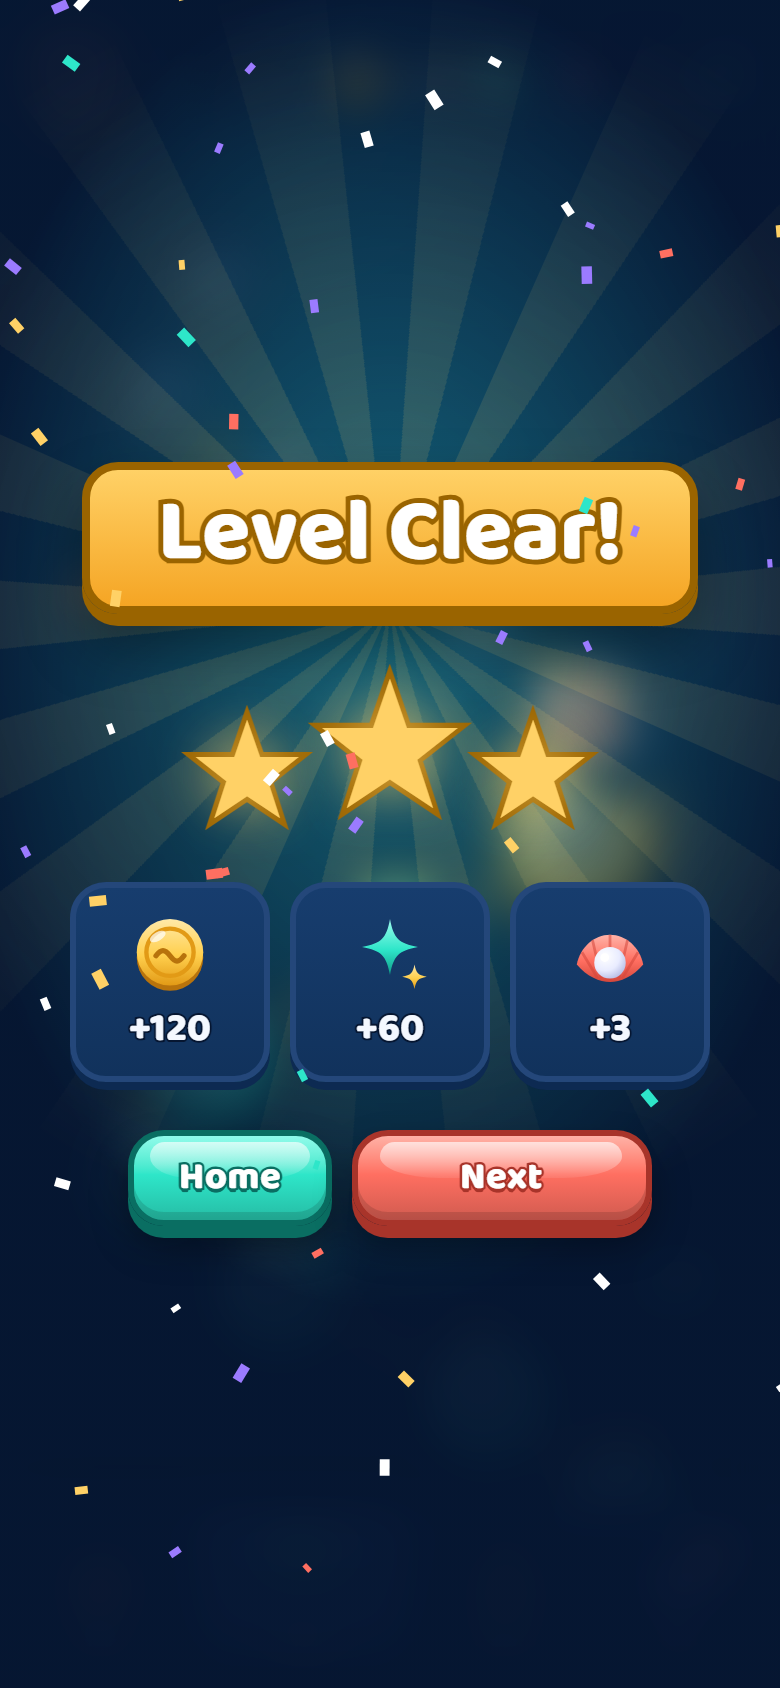
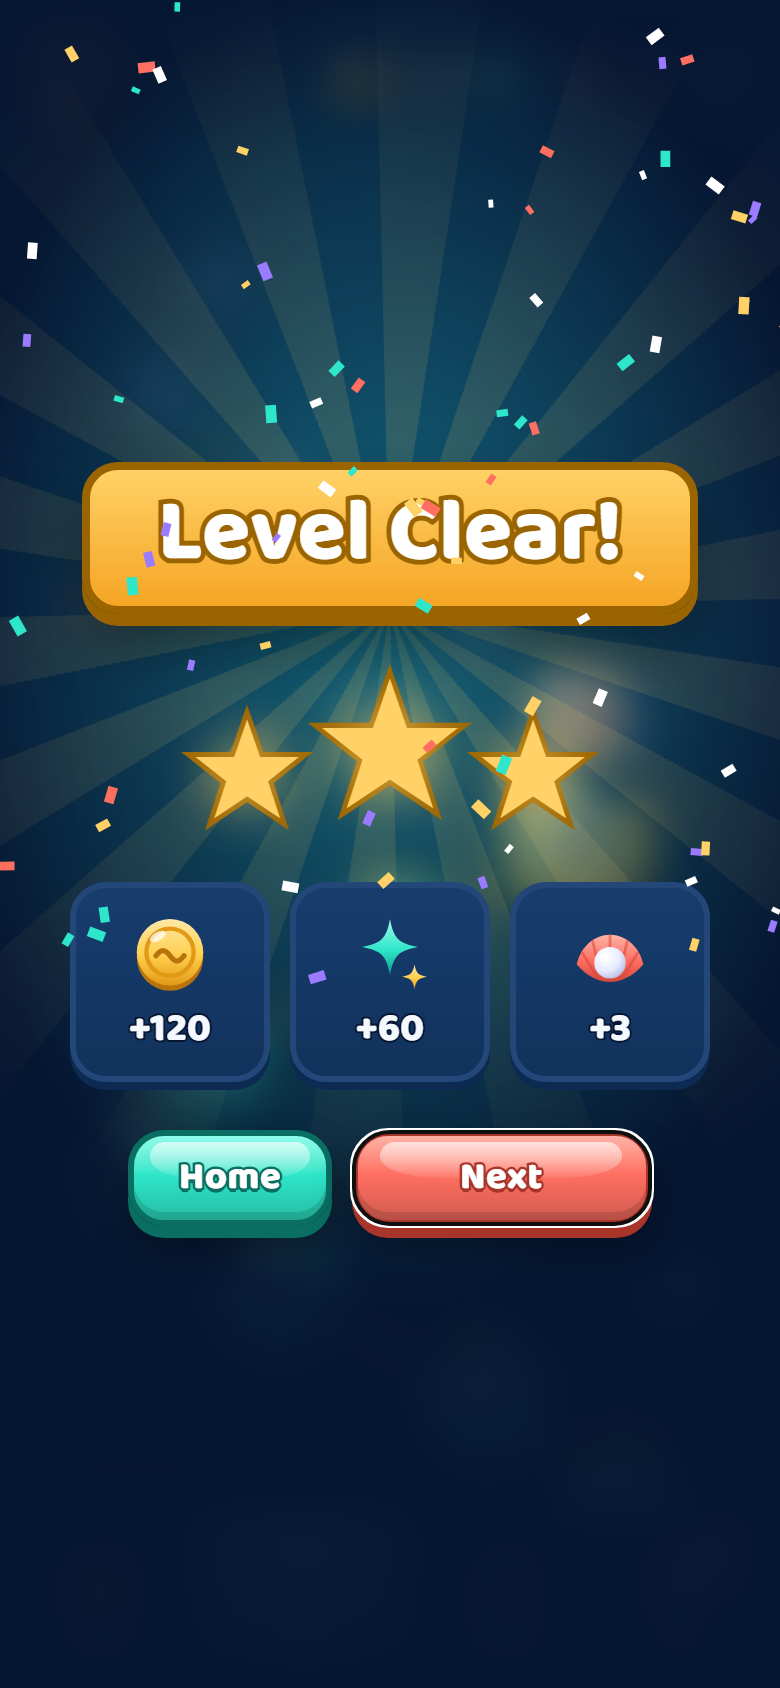
Accessible dialogs: inert background and hidden screens, aria-modal, focus in/out, Tab trap, Escape

diff --git a/app.html b/app.html
@@ -436,7 +436,7 @@ canvas#fx{position:absolute;inset:0;width:100%;height:100%;z-index:80;pointer-ev
 
   <div class="scrim" id="scrim"></div>
 
-  <div class="panel sheet" id="sheet" role="dialog" aria-label="Level start">
+  <div class="panel sheet" id="sheet" role="dialog" aria-modal="true" aria-label="Level start" inert>
     <span class="ribbon gold" id="sheetTitle">Level 15</span><button class="close" data-close aria-label="Close"></button>
     <div class="sec" style="text-align:center;margin-top:4px">Goals · 25 moves</div>
     <div class="goal"><div><i><svg class="ico" aria-hidden="true"><use href="#i-pearl"/></svg></i><b>× 30</b></div><div><i><svg class="ico" aria-hidden="true"><use href="#i-bubble"/></svg></i><b>× 12</b></div><div><i><svg class="ico" aria-hidden="true"><use href="#i-timer"/></svg></i><b>25</b></div></div>
@@ -449,7 +449,7 @@ canvas#fx{position:absolute;inset:0;width:100%;height:100%;z-index:80;pointer-ev
     <button class="btn coral lg" id="startLevel" style="width:100%"><span class="shine"></span><b>Start</b><span style="display:flex;align-items:center;gap:2px;font-size:20px;-webkit-text-stroke:0;text-shadow:none"><svg class="ico" aria-hidden="true"><use href="#i-energy"/></svg><b style="font-size:20px">1</b></span></button>
   </div>
 
-  <div class="panel popup" id="questsPop" role="dialog" aria-label="Daily quests">
+  <div class="panel popup" id="questsPop" role="dialog" aria-modal="true" aria-label="Daily quests" inert>
     <span class="ribbon teal">Daily Quests</span><button class="close" data-close aria-label="Close"></button>
     <div class="quests" style="text-align:left">
       <div class="quest"><div class="q-ic"><svg class="ico" aria-hidden="true"><use href="#i-shell"/></svg></div><div class="q-body"><b>Clear 3 levels</b><div class="bar"><i style="width:66%"></i><span>2/3</span></div></div><button class="btn sm disabled"><b>Go</b></button></div>
@@ -457,7 +457,7 @@ canvas#fx{position:absolute;inset:0;width:100%;height:100%;z-index:80;pointer-ev
     </div>
   </div>
 
-  <div class="panel popup" id="buyModal" role="dialog">
+  <div class="panel popup" id="buyModal" role="dialog" aria-modal="true" aria-label="Confirm purchase" inert>
     <span class="ribbon gold" id="buyTitle">Captain's Bundle</span><button class="close" data-close aria-label="Close"></button>
     <div class="chest" id="chest"><img src="art/chest.png" alt="Treasure chest"></div>
     <p>Confirm purchase</p>
@@ -467,7 +467,7 @@ canvas#fx{position:absolute;inset:0;width:100%;height:100%;z-index:80;pointer-ev
 
   <div id="dive"><div class="bubbles" id="bubbles"></div><div class="label">Diving…</div></div>
 
-  <div id="win" role="dialog" aria-label="Level complete">
+  <div id="win" role="dialog" aria-modal="true" aria-label="Level complete" inert>
     <div class="rays"></div>
     <div class="banner">Level Clear!</div>
     <div class="bigstars" id="bigstars"><span>★</span><span>★</span><span>★</span></div>
@@ -509,8 +509,8 @@ function go(tab) {
   inn.style.transition = "none"; inn.className = "screen " + (b > a ? "off-right" : "off-left"); void inn.offsetWidth;
   inn.style.transition = ""; inn.className = "screen"; enter(inn);
   out.className = "screen " + (b > a ? "off-left" : "off-right");
-  current = tab;
-  $$(".nav button").forEach(btn => btn.classList.toggle("on", btn.dataset.tab === tab));
+  current = tab; $$(".screen").forEach(sc => sc.inert = sc.id !== tab);
+  $$(".nav button").forEach(btn => { btn.classList.toggle("on", btn.dataset.tab === tab); btn.setAttribute("aria-current", btn.dataset.tab === tab ? "page" : "false"); });
   requestAnimationFrame(movePlate);
   if (tab === "map") scrollMapToMe();
   vibrate();
@@ -535,8 +535,31 @@ setInterval(() => {
 }, 1000);
 
 /* ---------- overlays ---------- */
-function openOverlay(id) { $("#scrim").classList.add("on"); $(id).classList.add("on"); vibrate(); }
-function closeOverlays() { $("#scrim").classList.remove("on"); $$(".sheet,.popup").forEach(o => o.classList.remove("on")); }
+/* Background is inert while a dialog is open; focus moves in and returns to the opener on close. */
+let opener = null, openDialog = null;
+const BACKDROP = () => [...$$(".screen"), $("#nav"), $(".hud")];
+function setBackdropInert(on) { BACKDROP().forEach(el => el.inert = on ? true : (el.classList.contains("screen") ? el.id !== current : false)); }
+function focusFirst(el) { const f = el.querySelector('button:not([disabled]):not(.disabled)'); f && f.focus({ preventScroll: true }); }
+function openOverlay(id) {
+  const el = $(id); opener = opener || document.activeElement; openDialog = el;
+  $("#scrim").classList.add("on"); el.classList.add("on"); el.inert = false; setBackdropInert(true);
+  setTimeout(() => focusFirst(el), 60); vibrate();
+}
+function closeOverlays() {
+  $("#scrim").classList.remove("on"); $$(".sheet,.popup").forEach(o => { o.classList.remove("on"); o.inert = true; });
+  openDialog = null; setBackdropInert(false);
+  if (opener && document.contains(opener) && !opener.closest("[inert]")) opener.focus({ preventScroll: true }); opener = null;
+}
+addEventListener("keydown", e => {
+  const dlg = openDialog || ($("#win").classList.contains("on") ? $("#win") : null);
+  if (!dlg) return;
+  if (e.key === "Escape" && openDialog) { e.preventDefault(); closeOverlays(); return; }
+  if (e.key !== "Tab") return;
+  const f = [...dlg.querySelectorAll("button:not([disabled]):not(.disabled)")].filter(b => b.offsetParent !== null);
+  if (!f.length) return;
+  if (e.shiftKey && document.activeElement === f[0]) { e.preventDefault(); f[f.length - 1].focus(); }
+  else if (!e.shiftKey && document.activeElement === f[f.length - 1]) { e.preventDefault(); f[0].focus(); }
+});
 $("#scrim").addEventListener("click", closeOverlays);
 $$("[data-close]").forEach(b => b.addEventListener("click", closeOverlays));
 
@@ -601,17 +624,17 @@ function dive() {
 }
 function showWin(lvl) {
   const stars = lvl === state.level ? 3 : Math.max(state.stars[lvl] || 0, 2);
-  $("#win").classList.add("on");
+  $("#win").classList.add("on"); $("#win").inert = false; setBackdropInert(true);
   $$("#bigstars span").forEach(s => s.classList.remove("on")); $$("#rewards div").forEach(d => d.classList.remove("on")); $("#winActions").classList.remove("on");
   $$("#bigstars span").forEach((s, i) => setTimeout(() => { if (i < stars) { s.classList.add("on"); vibrate(20); burst(s); } }, 600 + i * 360));
   $$("#rewards div").forEach((d, i) => setTimeout(() => d.classList.add("on"), 1700 + i * 120));
   setTimeout(() => { tween($("#rwCoins"), 0, 120, 700); tween($("#rwXp"), 0, 60, 700); confetti(); }, 1800);
-  setTimeout(() => $("#winActions").classList.add("on"), 2400);
+  setTimeout(() => { $("#winActions").classList.add("on"); $("#winNext").focus({ preventScroll: true }); }, 2400);
   state.stars[lvl] = Math.max(state.stars[lvl] || 0, stars);
   if (lvl === state.level) state.level = Math.min(20, state.level + 1);
 }
 function collectWin(next) {
-  $("#win").classList.remove("on"); addCoins(120); gainXp(60); renderMap();
+  $("#win").classList.remove("on"); $("#win").inert = true; setBackdropInert(false); addCoins(120); gainXp(60); renderMap();
   if (next) { go("map"); setTimeout(() => openSheet(state.level), 700); } else go("home");
 }
 $("#winHome").addEventListener("click", () => collectWin(false));
@@ -723,7 +746,7 @@ const TOUR = [
 let touring = false;
 async function tour() { if (touring) return; touring = true; for (const [w, a] of TOUR) { await new Promise(r => setTimeout(r, w)); a(); } touring = false; parent.postMessage({ type: "tour-done" }, "*"); }
 addEventListener("message", e => { if (e.data === "tour") tour(); });
-renderPass(); updateBadge(); movePlate(); enter($("#home"));
+renderPass(); updateBadge(); movePlate(); enter($("#home")); $$(".screen").forEach(sc => sc.inert = sc.id !== current);
 if (new URLSearchParams(location.search).get("tour")) setTimeout(tour, 800);
 </script>
 </body>

diff --git a/app.src.html b/app.src.html
@@ -396,7 +396,7 @@ canvas#fx{position:absolute;inset:0;width:100%;height:100%;z-index:80;pointer-ev
 
   <div class="scrim" id="scrim"></div>
 
-  <div class="panel sheet" id="sheet" role="dialog" aria-label="Level start">
+  <div class="panel sheet" id="sheet" role="dialog" aria-modal="true" aria-label="Level start" inert>
     <span class="ribbon gold" id="sheetTitle">Level 15</span><button class="close" data-close aria-label="Close"></button>
     <div class="sec" style="text-align:center;margin-top:4px">Goals · 25 moves</div>
     <div class="goal"><div><i>#I:pearl#</i><b>× 30</b></div><div><i>#I:bubble#</i><b>× 12</b></div><div><i>#I:timer#</i><b>25</b></div></div>
@@ -409,7 +409,7 @@ canvas#fx{position:absolute;inset:0;width:100%;height:100%;z-index:80;pointer-ev
     <button class="btn coral lg" id="startLevel" style="width:100%"><span class="shine"></span><b>Start</b><span style="display:flex;align-items:center;gap:2px;font-size:20px;-webkit-text-stroke:0;text-shadow:none">#I:energy#<b style="font-size:20px">1</b></span></button>
   </div>
 
-  <div class="panel popup" id="questsPop" role="dialog" aria-label="Daily quests">
+  <div class="panel popup" id="questsPop" role="dialog" aria-modal="true" aria-label="Daily quests" inert>
     <span class="ribbon teal">Daily Quests</span><button class="close" data-close aria-label="Close"></button>
     <div class="quests" style="text-align:left">
       <div class="quest"><div class="q-ic">#I:shell#</div><div class="q-body"><b>Clear 3 levels</b><div class="bar"><i style="width:66%"></i><span>2/3</span></div></div><button class="btn sm disabled"><b>Go</b></button></div>
@@ -417,7 +417,7 @@ canvas#fx{position:absolute;inset:0;width:100%;height:100%;z-index:80;pointer-ev
     </div>
   </div>
 
-  <div class="panel popup" id="buyModal" role="dialog">
+  <div class="panel popup" id="buyModal" role="dialog" aria-modal="true" aria-label="Confirm purchase" inert>
     <span class="ribbon gold" id="buyTitle">Captain's Bundle</span><button class="close" data-close aria-label="Close"></button>
     <div class="chest" id="chest"><img src="art/chest.png" alt="Treasure chest"></div>
     <p>Confirm purchase</p>
@@ -427,7 +427,7 @@ canvas#fx{position:absolute;inset:0;width:100%;height:100%;z-index:80;pointer-ev
 
   <div id="dive"><div class="bubbles" id="bubbles"></div><div class="label">Diving…</div></div>
 
-  <div id="win" role="dialog" aria-label="Level complete">
+  <div id="win" role="dialog" aria-modal="true" aria-label="Level complete" inert>
     <div class="rays"></div>
     <div class="banner">Level Clear!</div>
     <div class="bigstars" id="bigstars"><span>★</span><span>★</span><span>★</span></div>
@@ -469,8 +469,8 @@ function go(tab) {
   inn.style.transition = "none"; inn.className = "screen " + (b > a ? "off-right" : "off-left"); void inn.offsetWidth;
   inn.style.transition = ""; inn.className = "screen"; enter(inn);
   out.className = "screen " + (b > a ? "off-left" : "off-right");
-  current = tab;
-  $$(".nav button").forEach(btn => btn.classList.toggle("on", btn.dataset.tab === tab));
+  current = tab; $$(".screen").forEach(sc => sc.inert = sc.id !== tab);
+  $$(".nav button").forEach(btn => { btn.classList.toggle("on", btn.dataset.tab === tab); btn.setAttribute("aria-current", btn.dataset.tab === tab ? "page" : "false"); });
   requestAnimationFrame(movePlate);
   if (tab === "map") scrollMapToMe();
   vibrate();
@@ -495,8 +495,31 @@ setInterval(() => {
 }, 1000);
 
 /* ---------- overlays ---------- */
-function openOverlay(id) { $("#scrim").classList.add("on"); $(id).classList.add("on"); vibrate(); }
-function closeOverlays() { $("#scrim").classList.remove("on"); $$(".sheet,.popup").forEach(o => o.classList.remove("on")); }
+/* Background is inert while a dialog is open; focus moves in and returns to the opener on close. */
+let opener = null, openDialog = null;
+const BACKDROP = () => [...$$(".screen"), $("#nav"), $(".hud")];
+function setBackdropInert(on) { BACKDROP().forEach(el => el.inert = on ? true : (el.classList.contains("screen") ? el.id !== current : false)); }
+function focusFirst(el) { const f = el.querySelector('button:not([disabled]):not(.disabled)'); f && f.focus({ preventScroll: true }); }
+function openOverlay(id) {
+  const el = $(id); opener = opener || document.activeElement; openDialog = el;
+  $("#scrim").classList.add("on"); el.classList.add("on"); el.inert = false; setBackdropInert(true);
+  setTimeout(() => focusFirst(el), 60); vibrate();
+}
+function closeOverlays() {
+  $("#scrim").classList.remove("on"); $$(".sheet,.popup").forEach(o => { o.classList.remove("on"); o.inert = true; });
+  openDialog = null; setBackdropInert(false);
+  if (opener && document.contains(opener) && !opener.closest("[inert]")) opener.focus({ preventScroll: true }); opener = null;
+}
+addEventListener("keydown", e => {
+  const dlg = openDialog || ($("#win").classList.contains("on") ? $("#win") : null);
+  if (!dlg) return;
+  if (e.key === "Escape" && openDialog) { e.preventDefault(); closeOverlays(); return; }
+  if (e.key !== "Tab") return;
+  const f = [...dlg.querySelectorAll("button:not([disabled]):not(.disabled)")].filter(b => b.offsetParent !== null);
+  if (!f.length) return;
+  if (e.shiftKey && document.activeElement === f[0]) { e.preventDefault(); f[f.length - 1].focus(); }
+  else if (!e.shiftKey && document.activeElement === f[f.length - 1]) { e.preventDefault(); f[0].focus(); }
+});
 $("#scrim").addEventListener("click", closeOverlays);
 $$("[data-close]").forEach(b => b.addEventListener("click", closeOverlays));
 
@@ -561,17 +584,17 @@ function dive() {
 }
 function showWin(lvl) {
   const stars = lvl === state.level ? 3 : Math.max(state.stars[lvl] || 0, 2);
-  $("#win").classList.add("on");
+  $("#win").classList.add("on"); $("#win").inert = false; setBackdropInert(true);
   $$("#bigstars span").forEach(s => s.classList.remove("on")); $$("#rewards div").forEach(d => d.classList.remove("on")); $("#winActions").classList.remove("on");
   $$("#bigstars span").forEach((s, i) => setTimeout(() => { if (i < stars) { s.classList.add("on"); vibrate(20); burst(s); } }, 600 + i * 360));
   $$("#rewards div").forEach((d, i) => setTimeout(() => d.classList.add("on"), 1700 + i * 120));
   setTimeout(() => { tween($("#rwCoins"), 0, 120, 700); tween($("#rwXp"), 0, 60, 700); confetti(); }, 1800);
-  setTimeout(() => $("#winActions").classList.add("on"), 2400);
+  setTimeout(() => { $("#winActions").classList.add("on"); $("#winNext").focus({ preventScroll: true }); }, 2400);
   state.stars[lvl] = Math.max(state.stars[lvl] || 0, stars);
   if (lvl === state.level) state.level = Math.min(20, state.level + 1);
 }
 function collectWin(next) {
-  $("#win").classList.remove("on"); addCoins(120); gainXp(60); renderMap();
+  $("#win").classList.remove("on"); $("#win").inert = true; setBackdropInert(false); addCoins(120); gainXp(60); renderMap();
   if (next) { go("map"); setTimeout(() => openSheet(state.level), 700); } else go("home");
 }
 $("#winHome").addEventListener("click", () => collectWin(false));
@@ -683,7 +706,7 @@ const TOUR = [
 let touring = false;
 async function tour() { if (touring) return; touring = true; for (const [w, a] of TOUR) { await new Promise(r => setTimeout(r, w)); a(); } touring = false; parent.postMessage({ type: "tour-done" }, "*"); }
 addEventListener("message", e => { if (e.data === "tour") tour(); });
-renderPass(); updateBadge(); movePlate(); enter($("#home"));
+renderPass(); updateBadge(); movePlate(); enter($("#home")); $$(".screen").forEach(sc => sc.inert = sc.id !== current);
 if (new URLSearchParams(location.search).get("tour")) setTimeout(tour, 800);
 </script>
 </body>
